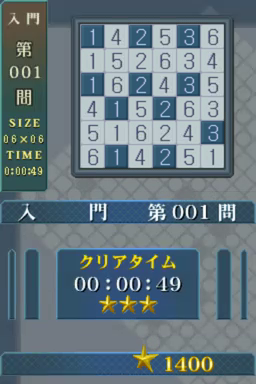
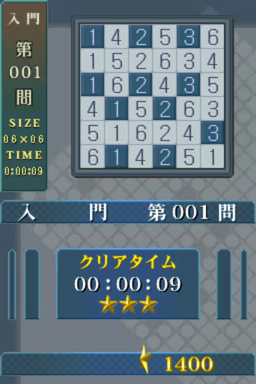
Vol.10: 入門001 重录带BGM归档视频(0:00:09/3★)，截图与存档同步为0:09，合并001-020

Changed region(s): [[0.5, 0.9062, 0.625, 0.9688], [0.5938, 0.7188, 0.6562, 0.7812], [0.125, 0.4375, 0.1562, 0.4688]]

diff --git a/解谜系列Vol.10：数壹/validation/README.md b/解谜系列Vol.10：数壹/validation/README.md
@@ -60,7 +60,7 @@ cd validation && python3 check_stars.py
 
 | 难度 | 录制时间 | 源目录 |
 |---|---|---|
-| 入門 | 2026-11-03 17:53 ~ 18:06（002–020）；2026-11-05 09:33 补录 001 | `Vol.10_入門录播/` |
+| 入門 | 2026-11-03 17:53 ~ 18:06（002–020）；2026-11-05 补录 001（含归档视频） | `Vol.10_入門录播/` |
 | やさしい | 2026-11-03 22:41 ~ 11-04 00:37 | `Vol.10_易しい录播/` |
 | ふつう | 2026-11-04 09:17 ~ 17:33 | `Vol.10_ふつう录播/` |
 | むずかしい 1–30 | 2026-11-04 21:05 ~ 22:17 | `Vol.10_むずかしい_星星结算录播/cut/` |
@@ -74,9 +74,12 @@ cd validation && python3 check_stars.py
 
 ## 入門 001 的补录说明
 
-入門的批量录制从 002 起步，001 一直缺图。2026-11-05 09:33 单独补录了一次：
-从空盘按答案掩码逐格涂黑，**00:00:49 通关、3★**，结算页见 `mode1_tutorial/l001_clear.png`。
+入門的批量录制从 002 起步，001 一直缺图。2026-11-05 补录了两次：
 
-存档里 001 原本是旧记录 **★★（0:02:58）**，本次补录后按 A 让游戏写盘，
-现在存档中 001 为 **★★★（0:00:49）**；`mode1_tutorial/00_select_7of20.png`
-也同步重拍，上屏 GET 显示 ★★★、ベストタイム 0:00:49。清关计数仍是 7/20（001 早已在册）。
+1. 第一次：从空盘按答案掩码逐格涂黑，**00:00:49 通关 3★**，按 A 写盘
+2. 第二次：为归档重录一条带真实 BGM 的录播 `Vol.10_入門录播/Vol.10_数壹_入門001_256x384.mp4`
+   （15.6s，256×384，30fps），**00:00:09 通关 3★**，同样写盘
+
+存档里 001 原本是旧记录 **★★（0:02:58）**，现在为 **★★★（0:00:09）**。
+`l001_clear.png` 与重拍的 `00_select_7of20.png` 都取自第二次（0:09）那次，
+与归档视频逐帧对得上。清关计数仍是 7/20（001 早已在册）。
